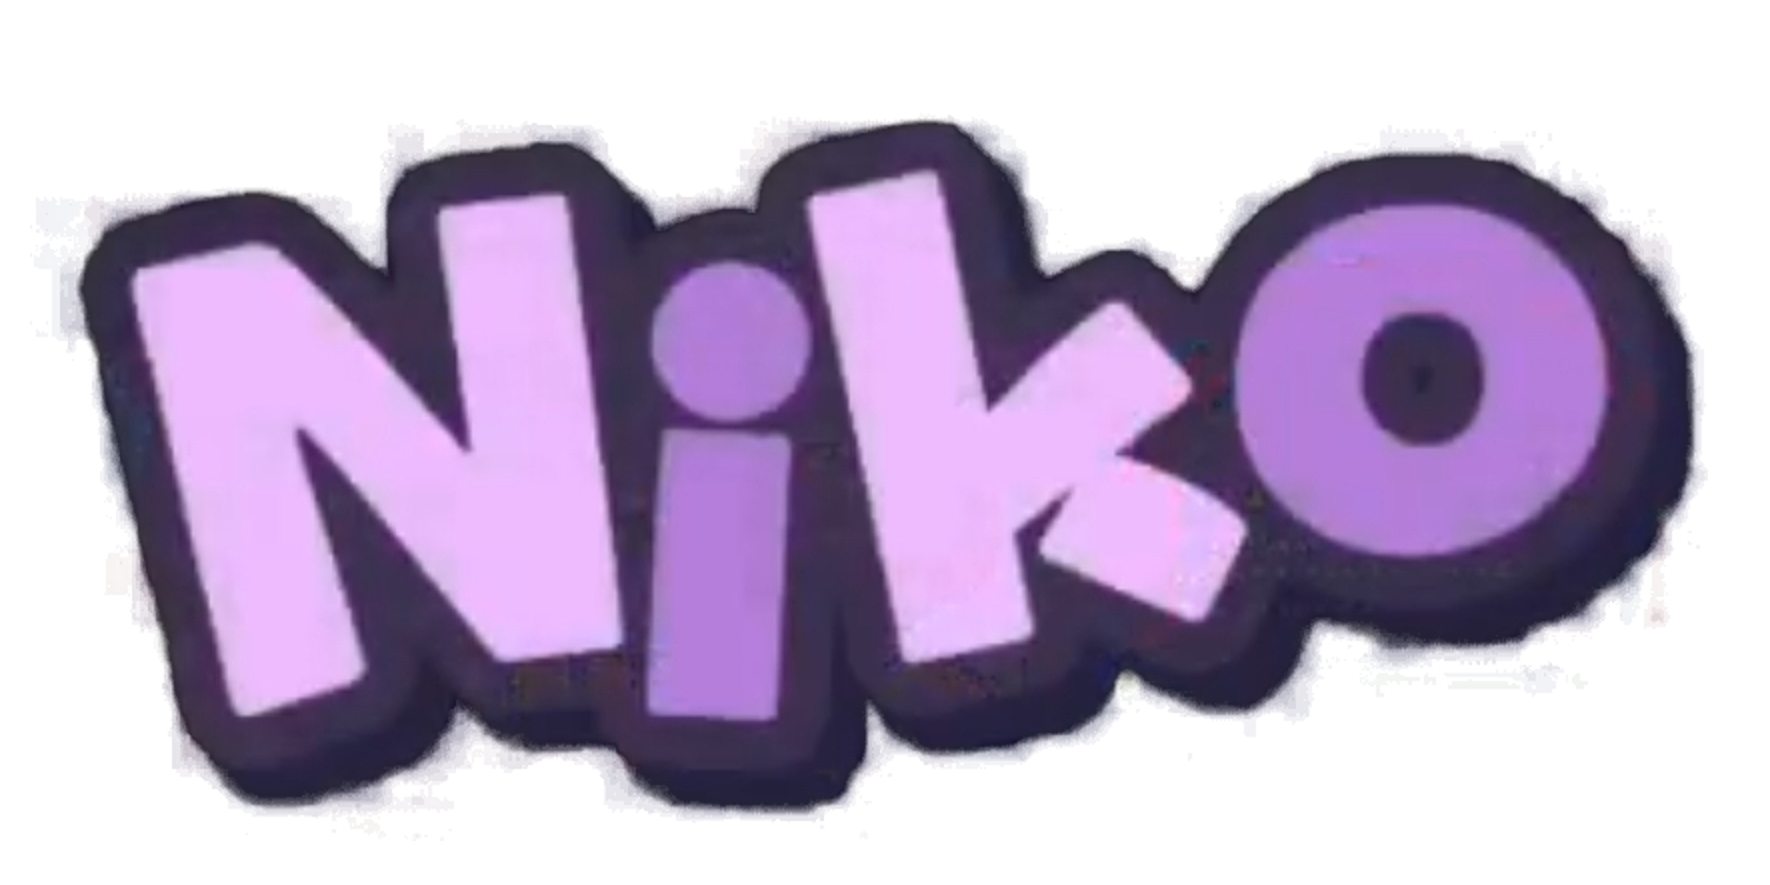
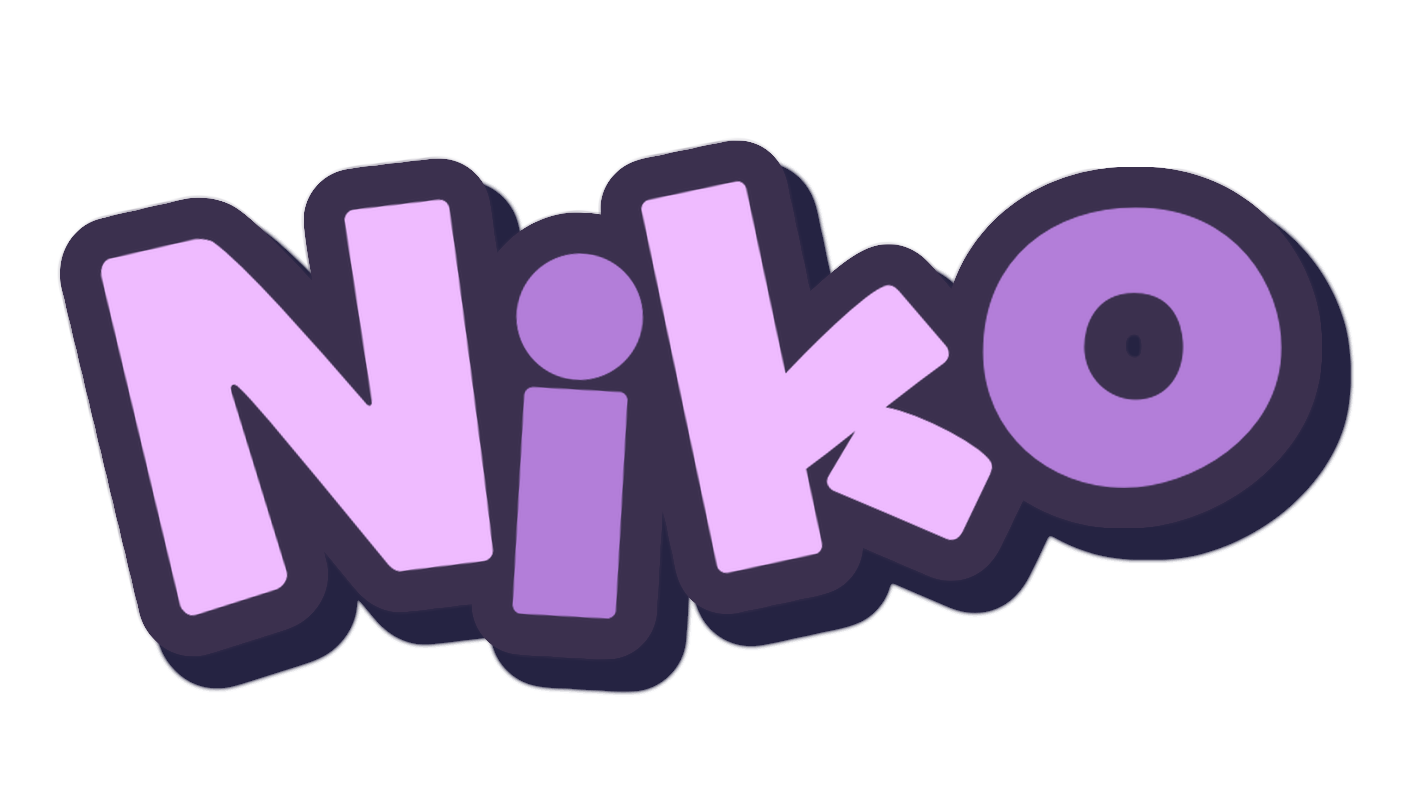
Add updated image and README changes

diff --git a/README.md b/README.md
@@ -14,19 +14,23 @@ Here are some ideas to get you started:
 -->
 
 # Hello!!
-
 <div align="center">
 
+![Zen](https://img.shields.io/badge/Zen-%23F76F53.svg?style=for-the-badge&logo=zenbrowser&logoColor=white)
+
 ![HTML5](https://img.shields.io/badge/html5-%23E34F26.svg?style=for-the-badge&logo=html5&logoColor=white) ![CSS](https://img.shields.io/badge/css-%23663399.svg?style=for-the-badge&logo=css&logoColor=white) ![Python](https://img.shields.io/badge/python-3670A0?style=for-the-badge&logo=python&logoColor=ffdd54) ![Lua](https://img.shields.io/badge/lua-%232C2D72.svg?style=for-the-badge&logo=lua&logoColor=white) ![JavaScript](https://img.shields.io/badge/JavaScript-323330?style=for-the-badge&logo=javascript&logoColor=F7DF1E)
+
+![Linux](https://img.shields.io/badge/Linux-FCC624?style=for-the-badge&logo=linux&logoColor=black) ![Ubuntu](https://img.shields.io/badge/Ubuntu-E95420?style=for-the-badge&logo=ubuntu&logoColor=white) ![Android](https://img.shields.io/badge/Android-3DDC84?style=for-the-badge&logo=android&logoColor=white)
 
 </div> 
 
 <img src="profile2.png" width=49% align="right"/>
 
-i'm <img src="niko.png" style="display: inline; height: 1.5em; vertical-align: text-bottom" alt="Niko">, programmer/student who's into **web development** *(mostly backend)*, **game development** and **other** *(fun)* **stuff**!
+i'm <img src="niko.png" style="display: inline; height: 1.7em; vertical-align: text-top; vertical-align: -0.5em;" alt="Niko">, programmer/student who's into **web development** *(mostly backend)*, **game development** and **other stuff**!
 
 i like to make things for myself, as i don't know the proper way to do things, so most of my projects are just experiments
 
 the stuff i make is usually modular, so you can use parts of it in your own projects!
 
-<img src="contactme.png" width=20% align="right"/>
+
+<!--<img src="contactme.png" width=30% align="right"/>  will set a link for this later-->
